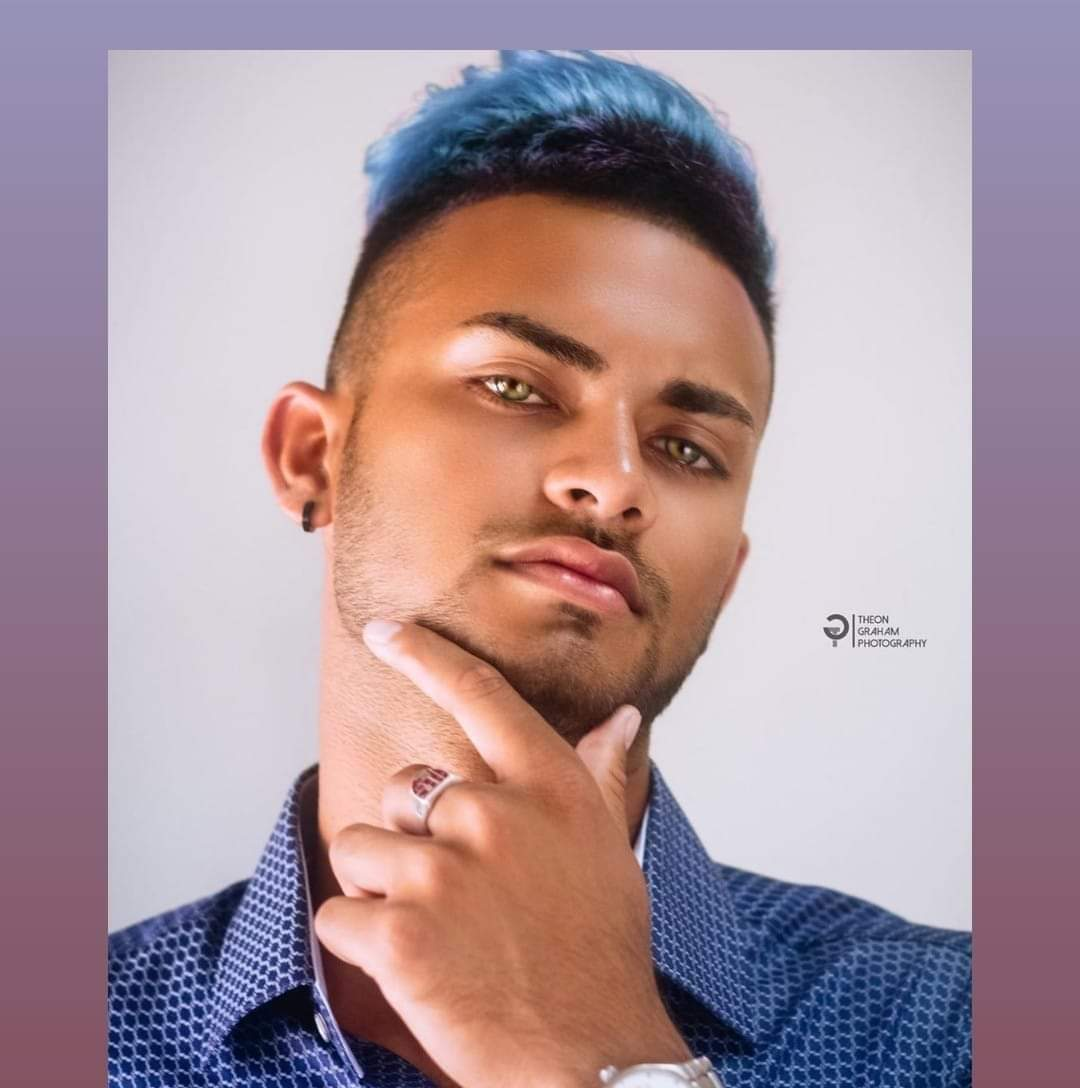
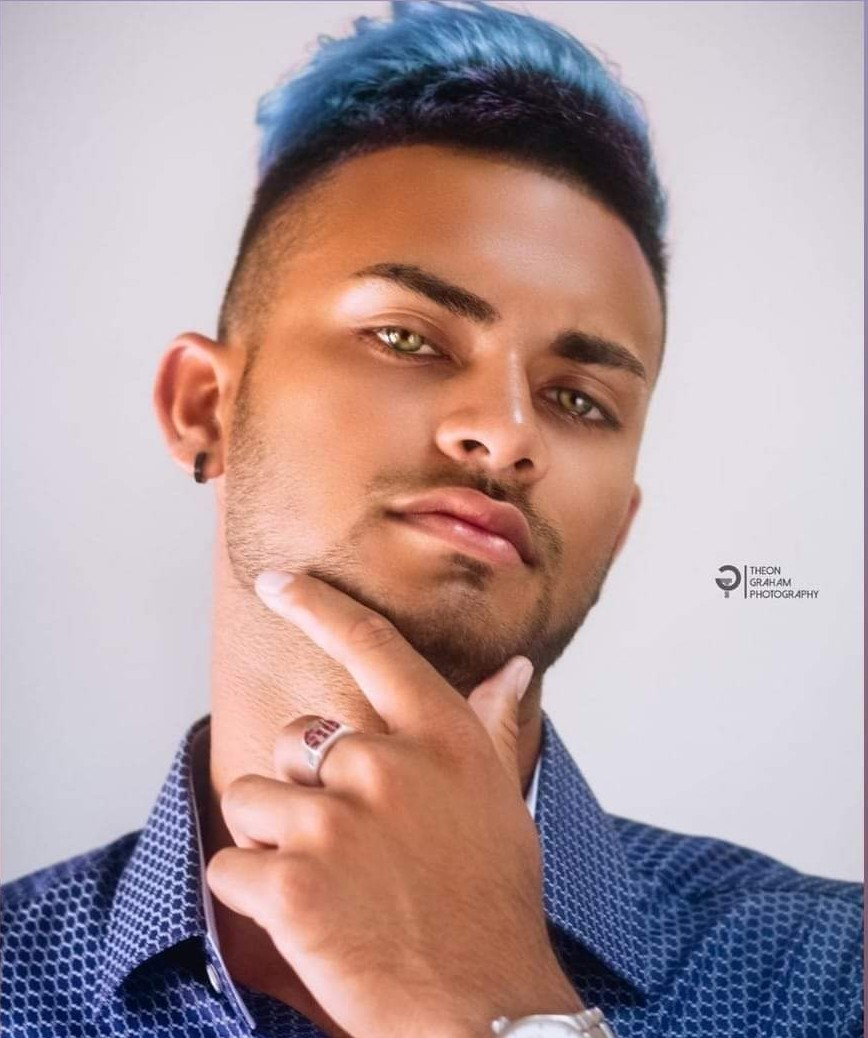
Cropped photo + added social links

diff --git a/index.html b/index.html
@@ -48,11 +48,10 @@
         <img src="assets/img/profile-img.jpg" alt="" class="img-fluid rounded-circle">
         <h1 class="text-light"><a href="index.html">Emilo Gopaul</a></h1>
         <div class="social-links mt-3 text-center">
-          <a href="#" class="twitter"><i class="bx bxl-twitter"></i></a>
-          <a href="#" class="facebook"><i class="bx bxl-facebook"></i></a>
-          <a href="#" class="instagram"><i class="bx bxl-instagram"></i></a>
-          <a href="#" class="google-plus"><i class="bx bxl-skype"></i></a>
-          <a href="#" class="linkedin"><i class="bx bxl-linkedin"></i></a>
+          <a href="https://www.facebook.com/emilo.gopaul/" class="facebook"><i class="bx bxl-facebook"></i></a>
+          <a href="https://www.instagram.com/magic_milo74/" class="instagram"><i class="bx bxl-instagram"></i></a>
+          <a href="https://github.com/Emilo74" class="github"><i class="bx bxl-github"></i></a>
+          <a href="https://www.linkedin.com/in/emilo-gopaul-9246201aa/" class="linkedin"><i class="bx bxl-linkedin"></i></a>
         </div>
       </div>
 

diff --git a/portfolio-details.html b/portfolio-details.html
@@ -48,11 +48,10 @@
         <img src="assets/img/profile-img.jpg" alt="" class="img-fluid rounded-circle">
         <h1 class="text-light"><a href="index.html">Emilo Gopaul</a></h1>
         <div class="social-links mt-3 text-center">
-          <a href="#" class="twitter"><i class="bx bxl-twitter"></i></a>
-          <a href="#" class="facebook"><i class="bx bxl-facebook"></i></a>
-          <a href="#" class="instagram"><i class="bx bxl-instagram"></i></a>
-          <a href="#" class="google-plus"><i class="bx bxl-skype"></i></a>
-          <a href="#" class="linkedin"><i class="bx bxl-linkedin"></i></a>
+          <a href="https://www.facebook.com/emilo.gopaul/" class="facebook"><i class="bx bxl-facebook"></i></a>
+          <a href="https://www.instagram.com/magic_milo74/" class="instagram"><i class="bx bxl-instagram"></i></a>
+          <a href="https://github.com/Emilo74" class="github"><i class="bx bxl-github"></i></a>
+          <a href="https://www.linkedin.com/in/emilo-gopaul-9246201aa/" class="linkedin"><i class="bx bxl-linkedin"></i></a>
         </div>
       </div>
 
